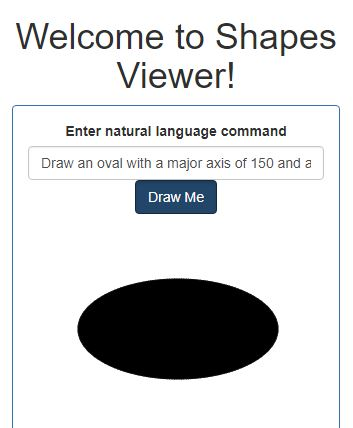
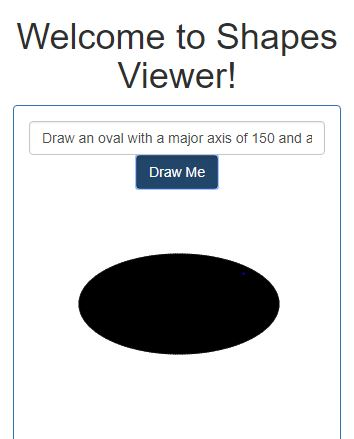
removed label n using placeholder

diff --git a/src/app/components/shape-viewer/shape-viewer.component.html b/src/app/components/shape-viewer/shape-viewer.component.html
@@ -1,8 +1,7 @@
 <div class="panel panel-primary" style="text-align:center">    
     <div class="panel-body">
-        <div class="form-group">
-            <label for="Command" class="col-md-4">Enter natural language command</label>                                      
-            <input type="text" id="Command" class="form-control col-md-4" [(ngModel)]="command" name="Command" placeholder="Command" />
+        <div class="form-group">                                      
+            <input type="text" id="Command" class="form-control col-md-4" [(ngModel)]="command" name="Command" placeholder="Natural language command" />
             <input type="button" id="btnSubmit" class="btn btn-primary" (click)="drawMe()" value="Draw Me" name="btnSubmit"/>                  
         </div>
         <div class="form-group">
